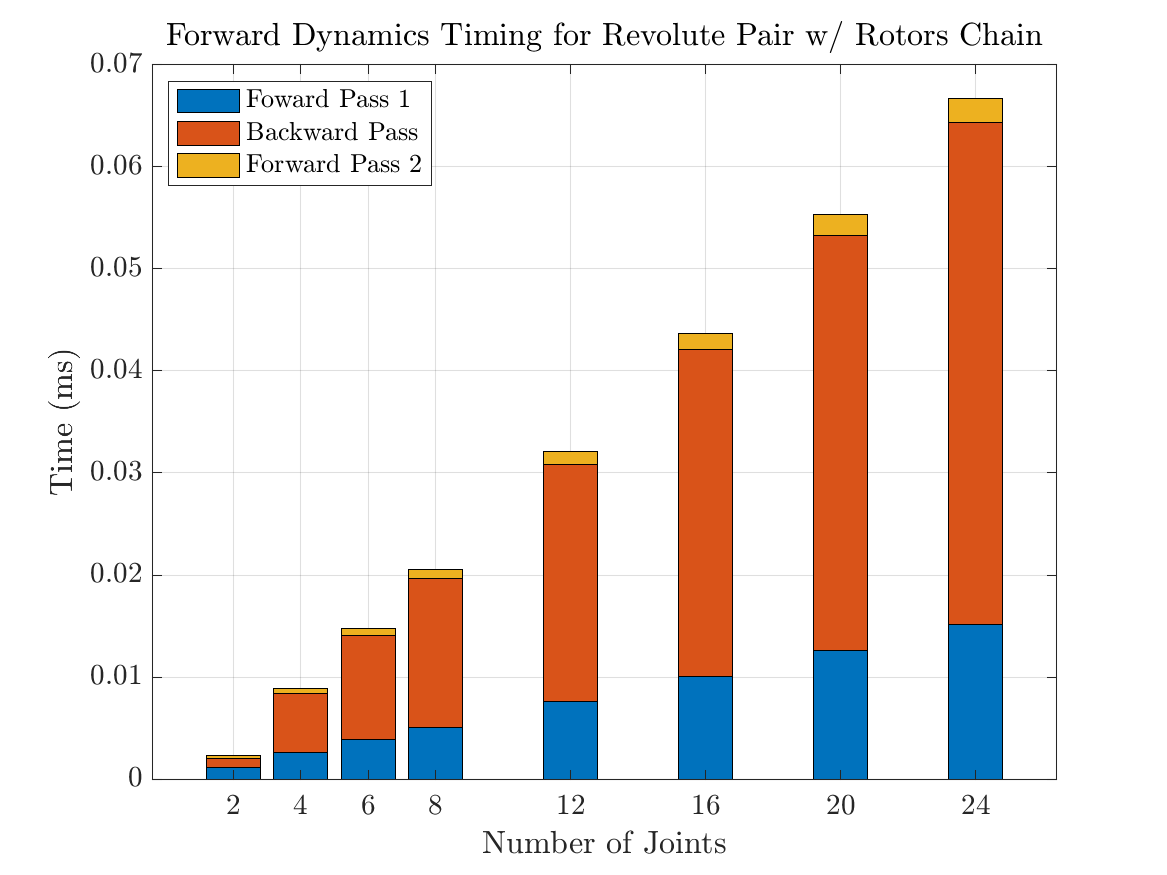
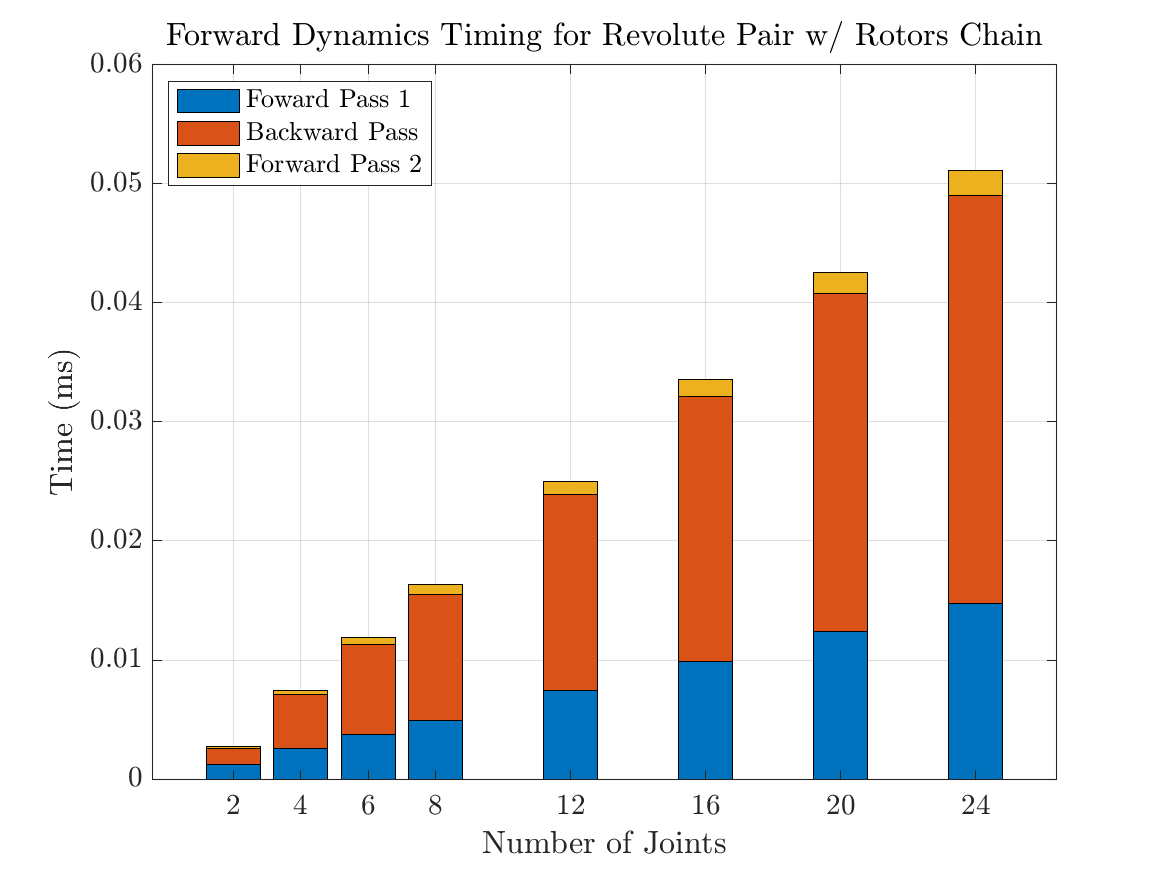
More detailed analysis of cluster-based update articulated bodies

diff --git a/Benchmarking/time_benchmark.m b/Benchmarking/time_benchmark.m
@@ -9,15 +9,16 @@ figure
 % Revolute Chain
 revolute_chain_with_rotors = readmatrix([path_to_data, 'RevoluteChain.csv']);
 subplot(1, 2, 1)
-compareTimes(revolute_chain_with_rotors, 'Revolute w/ Rotor Chain')
+compareTimes(revolute_chain_with_rotors, 'Revolute w/ Rotor')
 
 % Revolute Pair Chain
 revolute_pair_chain_with_rotors = readmatrix([path_to_data, 'RevolutePairChain.csv']);
 subplot(1, 2, 2)
-compareTimes(revolute_pair_chain_with_rotors, 'Revolute Pair w/ Rotors Chain')
+compareTimes(revolute_pair_chain_with_rotors, 'Revolute Pair w/ Rotors')
 
 saveas(gcf, [path_to_figures, 'RevoluteChains.png'])
 
+return
 %% Revolute Chain with Multiple Rotors
 revolute_chain_with_multiple_rotors = readmatrix([path_to_data, 'RevoluteMultiRotorChain.csv']);
 compareMultipleRotorTimes(revolute_chain_with_multiple_rotors)
@@ -36,10 +37,15 @@ function [rows, cols] = getSubplotRowsAndCols(num_plots)
 end
 
 function compareTimes(data, robot_name)
+    
+    plot_both_lg = false;
+
     plot(data(:, 1), data(:, 2), 'ro-', 'Linewidth', 2.0, 'MarkerSize', 10.)
     hold on
     plot(data(:, 1), data(:, 3), 'go-', 'Linewidth', 2.0, 'MarkerSize', 10.)
-    plot(data(:, 1), data(:, 4), 'go--', 'Linewidth', 2.0, 'MarkerSize', 10.)
+    if plot_both_lg
+        plot(data(:, 1), data(:, 4), 'go--', 'Linewidth', 2.0, 'MarkerSize', 10.)
+    end
     plot(data(:, 1), data(:, 5), 'bo-', 'Linewidth', 2.0, 'MarkerSize', 10.)
     plot(data(:, 1), data(:, 6), 'ko-', 'Linewidth', 2.0, 'MarkerSize', 10.)
 
@@ -47,9 +53,13 @@ function compareTimes(data, robot_name)
 
     xlabel('Degrees of Freedom', 'Interpreter', 'latex')
     ylabel('Computation Time (ms)', 'Interpreter', 'latex')
-    title(['Forward Dynamics - ', robot_name], 'Interpreter', 'latex')
-    legend({'Cluster-Based', 'Lagrange Multipliers (Custom)', 'Lagrange Multipliers (Eigen)', 'Projection', 'Original ABA'}, 'Location', 'Northwest', 'Interpreter', 'latex')
-    set(gca, 'Fontsize', 10)
+    title(robot_name, 'Interpreter', 'latex')
+    if plot_both_lg
+        legend({'Cluster-Based', 'Lagrange Multipliers (Custom)', 'Lagrange Multipliers (Eigen)', 'Projection', 'Original ABA'}, 'Location', 'Best', 'Interpreter', 'latex')
+    else
+        legend({'Cluster-Based', 'Lagrange Multipliers', 'Projection', 'Original ABA'}, 'Location', 'Best', 'Interpreter', 'latex')
+    end
+    set(gca, 'Fontsize', 16)
     set(gca, 'TickLabelInterpreter', 'latex')
     axis([0 25 0 0.16])
 end

diff --git a/Dynamics/ClusterTreeDynamics.cpp b/Dynamics/ClusterTreeDynamics.cpp
@@ -57,6 +57,7 @@ namespace grbda
 
         // Forward dynamics via Articulated Body Algorithm
 #ifdef TIMING_STATS
+        timing_statistics_.zero();
         timer_.start();
 #endif
         forwardKinematics();
@@ -153,27 +154,45 @@ namespace grbda
         forwardKinematics();
 
         // Forward pass
+#ifdef TIMING_STATS
+        double start_time_IA = timer_.getMs();
+#endif
         for (auto &cluster : cluster_nodes_)
         {
             cluster->IA_ = cluster->I_;
         }
+#ifdef TIMING_STATS
+        timing_statistics_.reset_IA_time += timer_.getMs() - start_time_IA;
+#endif
 
         // Backward pass (Gauss principal of least constraint)
         for (int i = (int)cluster_nodes_.size() - 1; i >= 0; i--)
         {
             auto &cluster = cluster_nodes_[i];
             const auto joint = cluster->joint_;
+#ifdef TIMING_STATS
+            double start_time_D = timer_.getMs();
+#endif
             cluster->U_ = cluster->IA_ * joint->S();
             const DMat<double> D = joint->S().transpose() * cluster->U_;
             cluster->updateDinv(D);
             cluster->D_inv_UT_ = cluster->D_inv_.solve(cluster->U_.transpose());
+#ifdef TIMING_STATS
+            timing_statistics_.update_and_solve_D_time += timer_.getMs() - start_time_D;
+#endif
 
             // Articulated body inertia recursion
             if (cluster->parent_index_ >= 0)
             {
+#ifdef TIMING_STATS
+                double start_time_Ia = timer_.getMs();
+#endif
                 auto parent_cluster = cluster_nodes_[cluster->parent_index_];
-                cluster->Ia_ = cluster->IA_ - cluster->U_ * cluster->D_inv_UT_;
+                cluster->Ia_ = cluster->IA_;// - cluster->U_ * cluster->D_inv_UT_;
                 parent_cluster->IA_ += cluster->Xup_.inverseTransformSpatialInertia(cluster->Ia_);
+#ifdef TIMING_STATS
+                timing_statistics_.invert_xform_spatial_inertia_time += timer_.getMs() - start_time_Ia;
+#endif
             }
         }
 

diff --git a/Dynamics/ClusterTreeModel.h b/Dynamics/ClusterTreeModel.h
@@ -27,6 +27,22 @@ namespace grbda
         double external_force_time = 0.0;
         double backward_pass_time = 0.0;
         double forward_pass2_time = 0.0;
+        double invert_xform_spatial_inertia_time = 0.0;
+        double update_and_solve_D_time = 0.0;
+        double reset_IA_time = 0.0;
+
+        void zero()
+        {
+            forward_kinematics_time = 0.0;
+            update_articulated_bodies_time = 0.0;
+            forward_pass1_time = 0.0;
+            external_force_time = 0.0;
+            backward_pass_time = 0.0;
+            forward_pass2_time = 0.0;
+            invert_xform_spatial_inertia_time = 0.0;
+            update_and_solve_D_time = 0.0;
+            reset_IA_time = 0.0;
+        }
 
         ClusterTreeTimingStatistics &operator+=(const ClusterTreeTimingStatistics &other)
         {
@@ -36,6 +52,9 @@ namespace grbda
             external_force_time += other.external_force_time;
             backward_pass_time += other.backward_pass_time;
             forward_pass2_time += other.forward_pass2_time;
+            invert_xform_spatial_inertia_time += other.invert_xform_spatial_inertia_time;
+            update_and_solve_D_time += other.update_and_solve_D_time;
+            reset_IA_time += other.reset_IA_time;
             return *this;
         }
 
@@ -47,6 +66,9 @@ namespace grbda
             external_force_time /= scalar;
             backward_pass_time /= scalar;
             forward_pass2_time /= scalar;
+            invert_xform_spatial_inertia_time /= scalar;
+            update_and_solve_D_time /= scalar;
+            reset_IA_time /= scalar;
             return *this;
         }
     };

diff --git a/Benchmarking/clusterModelTimingAnalysis.cpp b/Benchmarking/clusterModelTimingAnalysis.cpp
@@ -52,9 +52,13 @@ void runBenchmark(std::ofstream &file, const std::string &id)
          << timing_stats.forward_pass1_time << ","
          << timing_stats.external_force_time << ","
          << timing_stats.backward_pass_time << ","
-         << timing_stats.forward_pass2_time << std::endl;
+         << timing_stats.forward_pass2_time << ","
+         << timing_stats.invert_xform_spatial_inertia_time << ","
+         << timing_stats.update_and_solve_D_time << ","
+         << timing_stats.reset_IA_time << std::endl;
 
-    std::cout << "Finished benchmark for robot w/ id " << id << std::endl;
+    std::cout
+        << "Finished benchmark for robot w/ id " << id << std::endl;
 }
 
 const std::string path_to_data = "../Benchmarking/data/CL_";
